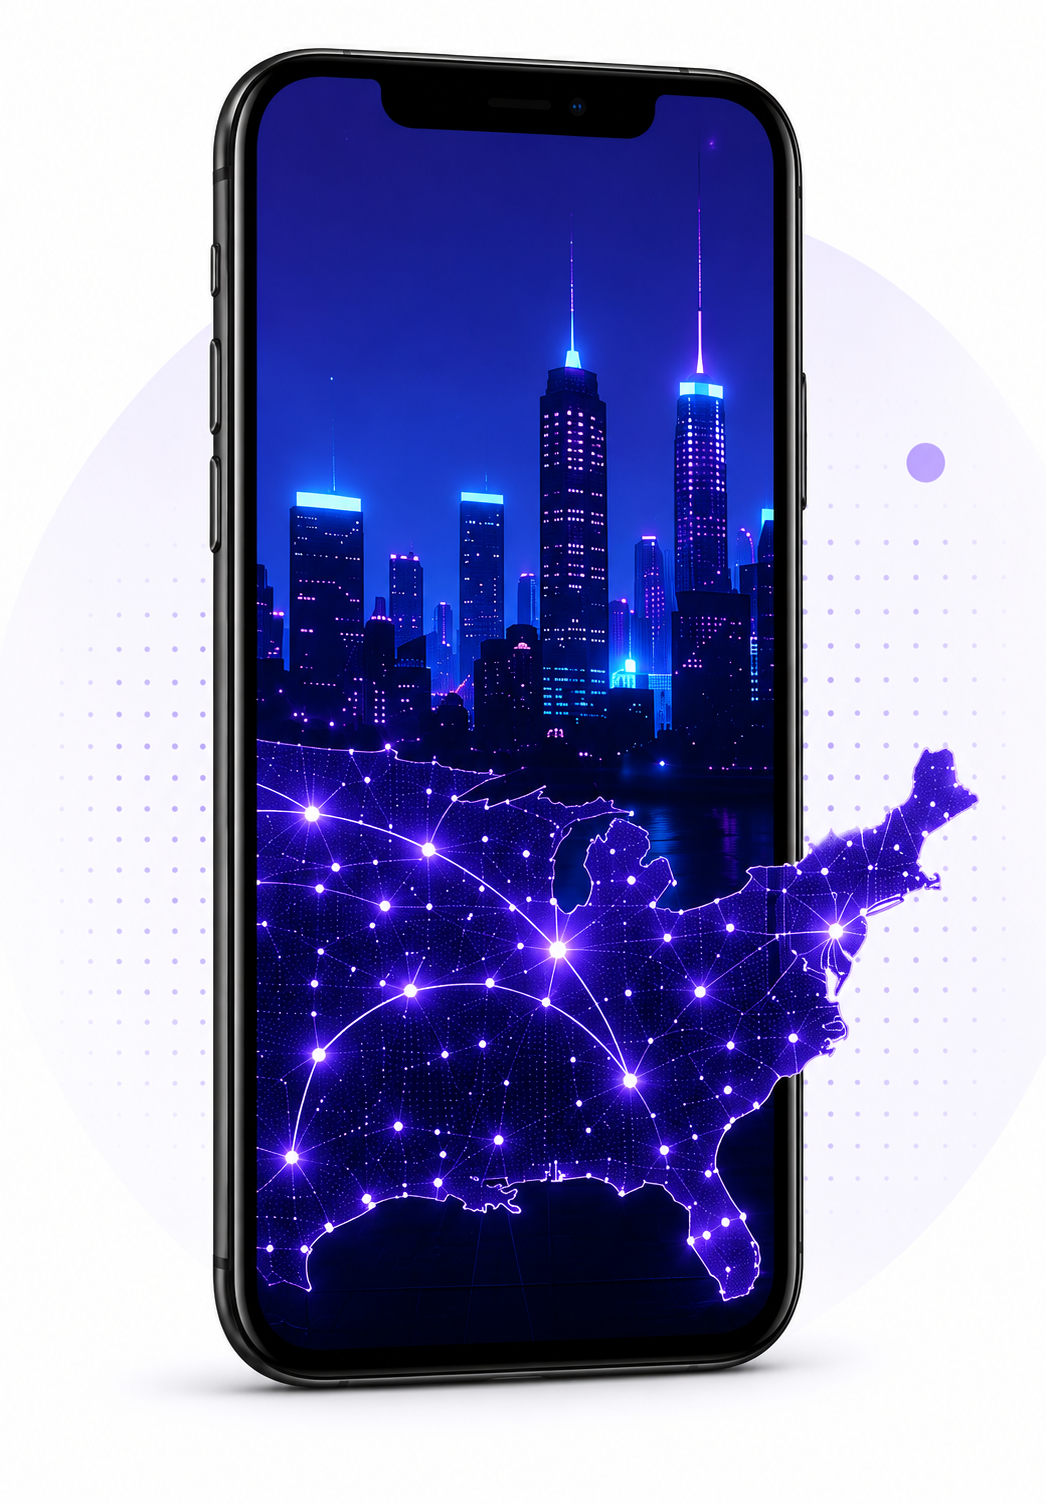
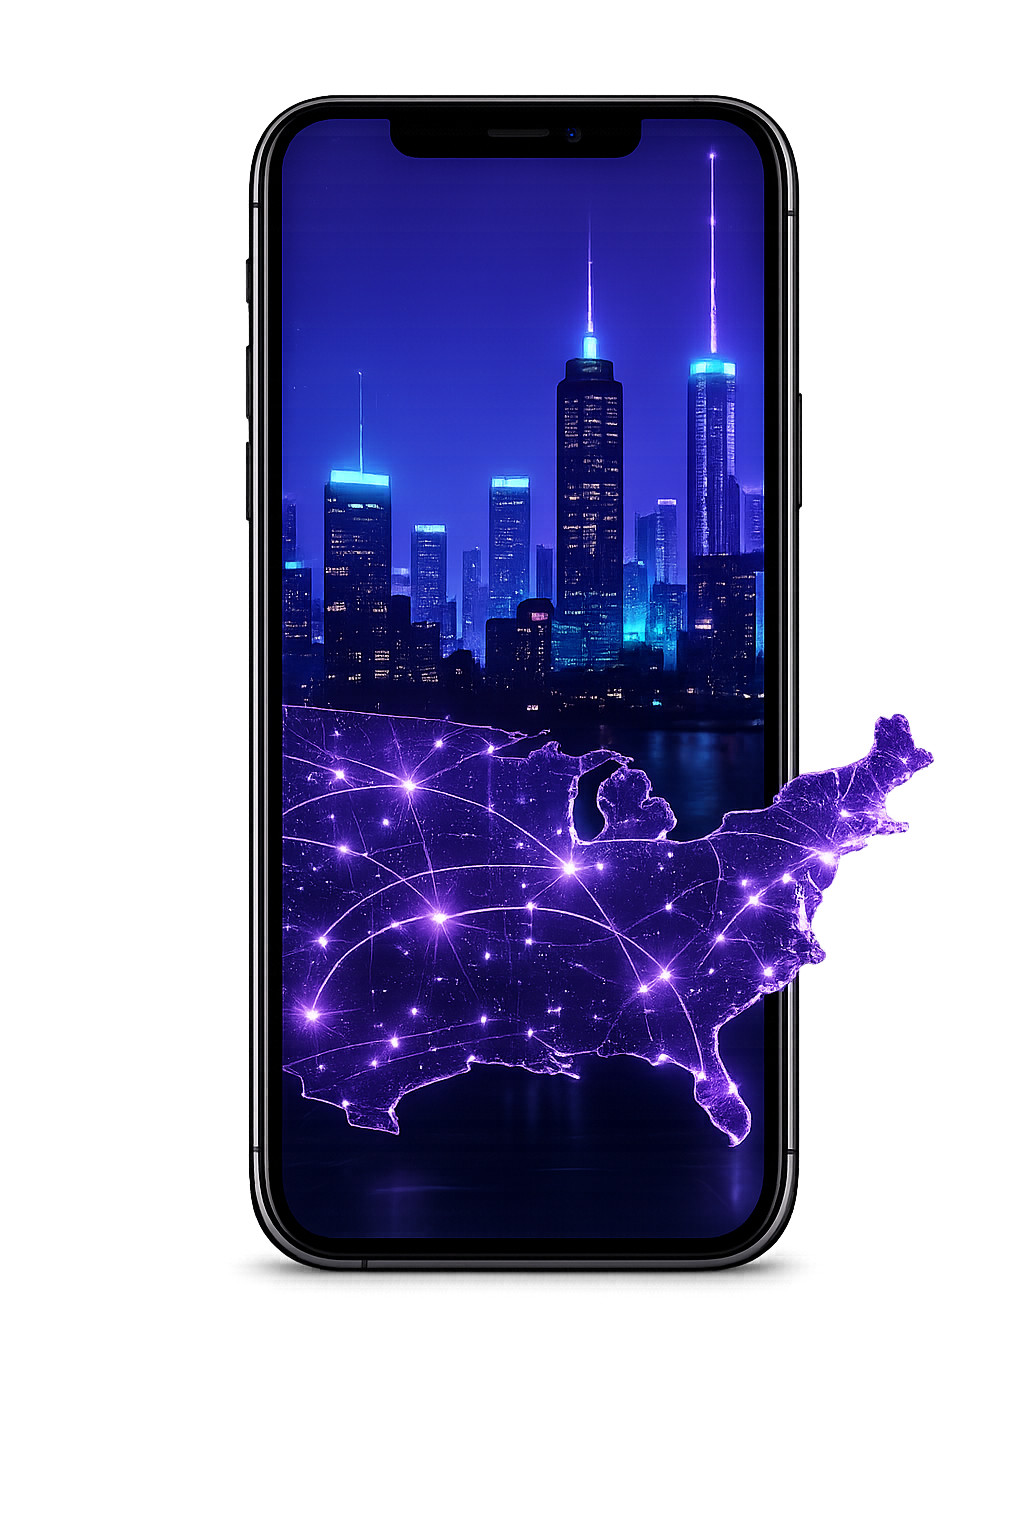
Hero: agranda imagen del telefono y alinea el titular a la par de la imagen

diff --git a/styles.css b/styles.css
@@ -121,14 +121,14 @@ svg { display: block; }
 }
 .hero::before { width: 320px; height: 320px; background: rgba(124, 92, 255, 0.22); top: -80px; right: 8%; }
 .hero::after { width: 260px; height: 260px; background: rgba(192, 75, 255, 0.16); bottom: -60px; left: 4%; animation-delay: 2s; }
-.hero-grid { display: grid; grid-template-columns: 1.02fr 0.98fr; align-items: center; gap: 40px; position: relative; z-index: 1; }
+.hero-grid { display: grid; grid-template-columns: 1fr 1fr; align-items: center; gap: 30px; position: relative; z-index: 1; }
 .hero-copy { text-align: left; }
 .hero h1 { font-size: clamp(2.6rem, 6.2vw, 4.4rem); margin-bottom: 22px; }
 .hero .grad { background-size: 200% auto; }
 .hero .lead { margin: 0 0 30px; }
 .hero-cta { justify-content: flex-start; }
 .hero-media { display: grid; place-items: center; }
-.hero-media img { width: 100%; max-width: 480px; filter: drop-shadow(0 30px 55px rgba(76, 50, 160, 0.28)); animation: floatY 6s ease-in-out infinite; }
+.hero-media img { width: 100%; max-width: 580px; filter: drop-shadow(0 30px 55px rgba(76, 50, 160, 0.28)); animation: floatY 6s ease-in-out infinite; }
 .hero-badges { list-style: none; display: flex; gap: 16px; padding: 0; margin: 0 0 34px; flex-wrap: wrap; justify-content: center; }
 .hero-badges li {
   display: flex; gap: 12px; align-items: center; font-size: 0.82rem; color: var(--muted);